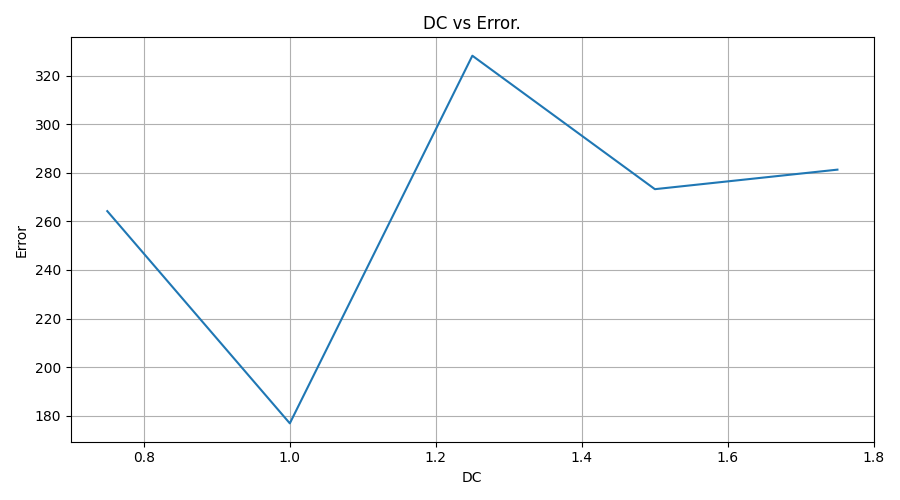
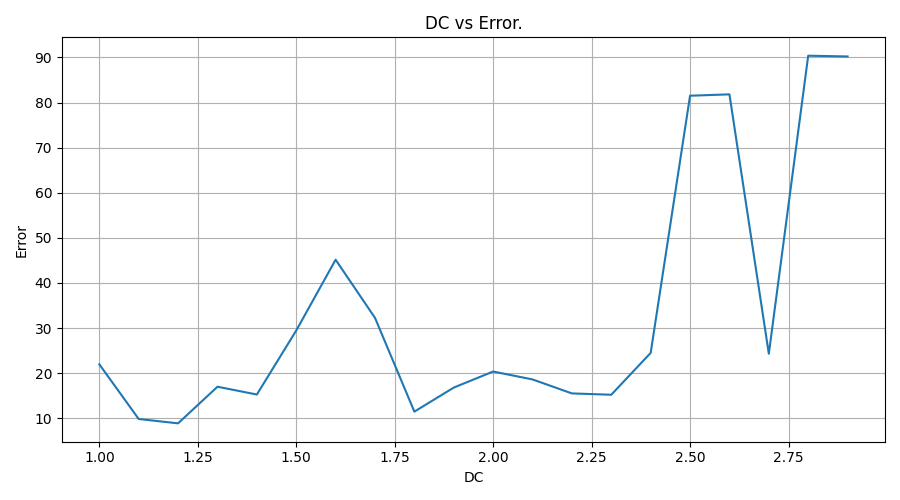
The final offensive of the Spanish Civil War took place between 26 March and 1 April 1939, towards the end of the Spanish Civil War. On 5 March 1939, the Republican Army, led by Colonel Segismundo Casado and the politician Julián Besteiro, rose against the socialist prime minister Juan Negrín, and f
Background
Fall of Catalonia
After the fall of Catalonia in February 1939, the military situation of the Republic was hopeless. Despite still having the capital city and approximately 30% of Spanish territory, it had lost 220,000 soldiers, the second most populated city in the country and the industrial resources of Catalonia.[9] Furthermore, on 27 February, President Manuel Azaña resigned. The United Kingdom and France then recognised the Nationalist government.[10]

Military situation
The Republican army still had between 250,000[11] and 500,000 men[12] but only 40 aircraft (three Natasha and two Katiuska bomber squadrons, and 25 Chatos and Moscas fighters),[13] little artillery and few automatic weapons.[14] Many soldiers were unarmed (in December 1938, the Republican army had only 225,000 rifles),[15] and lacked shoes and overcoats.[16] In Madrid, there was food for only two months and no water, heating, medicine or surgical dressings.[17] On the other hand, the Nationalist army had more than a million men at the end of 1938, with 35,000 Moroccans, 32,000 Italians and 5,000 Germans,[18] as well as 600 aircraft.[19]

Opposition to continued resistance
[…]

diff --git a/Predicting_BC_2.0.py b/Predicting_BC_2.0.py
@@ -22,15 +22,16 @@ import sys
 """-------------------------------"""
 """Inputs"""
 TLE1_number = 7000
-TLE2_number = 7200
+TLE2_number = 7300
 
 Mass = 2.2
 
-reference_area = 0.011  # Average projection area of a 3U CubeSat
-drag_coefficient = 0.5
-step_size_Cd = 0.25
+reference_area = 0.08  # Average projection area of a 3U CubeSat
+drag_coefficient_lower = 1
+drag_coefficient_upper = 3
 
-itterations = 5
+
+itterations = 20
 
 radiation_pressure_coefficient = 1.2
 
@@ -40,7 +41,7 @@ fixed_step_size = 200.0
 """-------------------------------"""
 
 
-
+step_size  = (drag_coefficient_upper - drag_coefficient_lower)/itterations
 
 def convert_epoch_day_to_date(epoch_year, epoch_day):
     # Create a datetime object for the start of the epoch year
@@ -164,6 +165,7 @@ parsed_TLE2 = parse_TLE(TLE_2)
 print('\n')
 print('\n')
 print("The code will run from", parsed_TLE1['Date'], "to", parsed_TLE2['Date'])
+print('It will run for a drag coefficient between', drag_coefficient_lower, 'and', drag_coefficient_upper,'with a step size of', step_size)
 print('\n')
 print('Grab yourself some coffee, this might take a while...')
 print('\n')
@@ -406,7 +408,7 @@ Error = []
 DC = []
 FA= []
 for i in range(itterations):
-    drag_coefficient = drag_coefficient + step_size_Cd
+    drag_coefficient = drag_coefficient_lower + i*step_size
 
     aero_coefficient_settings = environment_setup.aerodynamic_coefficients.constant(
     reference_area, [drag_coefficient, 0, 0]
@@ -449,7 +451,7 @@ for i in range(itterations):
     dep_vars = dynamics_simulator.dependent_variable_history
     dep_vars_array = result2array(dep_vars)
 
-    Final_altitude = dep_vars_array[-1,19]
+    #Final_altitude = dep_vars_array[-1,19]
     kepler_elements = dep_vars_array[:,4:10]
     Semi_major_axis = kepler_elements[:,0]
     eccentricity = kepler_elements[:,1]
@@ -467,7 +469,7 @@ for i in range(itterations):
     # Calculating the velocity
     Vp = math.sqrt((3.9860044188*10**14*2*Ra[-1])/(Rp[-1]*(Ra[-1]+Rp[-1])))
     Va = math.sqrt((3.9860044188*10**14*2*Rp[-1])/(Ra[-1]*(Ra[-1]+Rp[-1])))
-
+    print('For a drag coefficient of',round(drag_coefficient,2),'the TLE data versus the simulation data is as follows:')
     print(parsed_TLE2['Height_Apo'], Height_apo[-1])
     print(parsed_TLE2['Height_Peri'], Height_peri[-1])
     print(parsed_TLE2['Vp'], Vp)
@@ -479,7 +481,7 @@ for i in range(itterations):
     MSE = (1/4) * ((Height_apo[-1] - parsed_TLE2['Height_Apo'])**2 + (Height_peri[-1] - parsed_TLE2['Height_Peri'])**2 + (Vp - parsed_TLE2['Vp'])**2 + (Va - parsed_TLE2['Va'])**2)
     print(MSE)
     Error.append(MSE)
-    FA.append(Final_altitude)
+    FA.append(Height_apo[-1])
 
 print(DC)
 print(FA)
@@ -532,7 +534,7 @@ plt.ylabel('Altitude [m]')
 plt.grid()
 plt.tight_layout()
 plt.show()
-plt.savefig('altitude vs DC.png')
+plt.savefig('apoapsis vs DC.png')
 
 plt.figure(figsize=(9, 5))
 plt.title("DC vs Error.")
